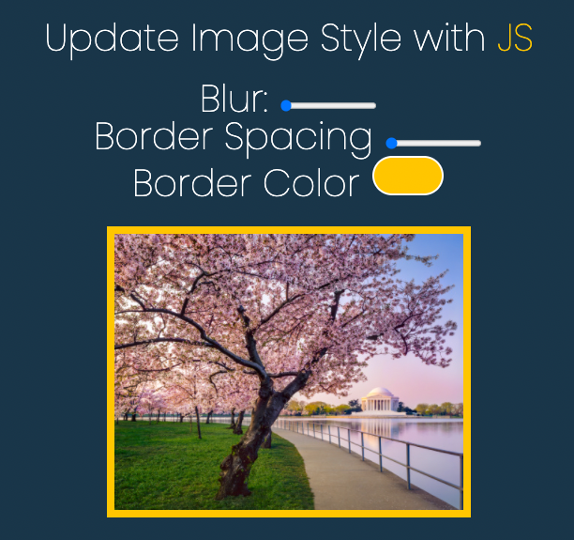
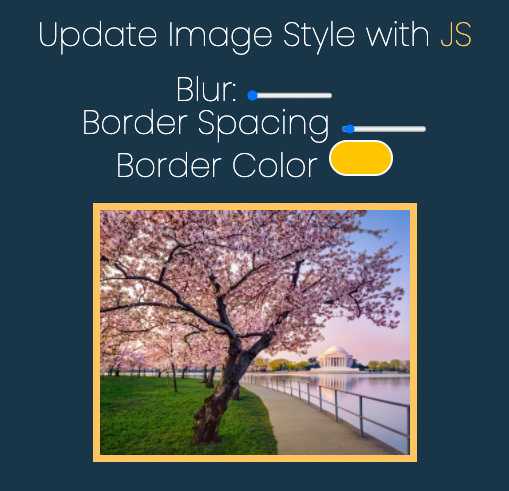
change min to 0

diff --git a/public/index.html b/public/index.html
@@ -45,7 +45,7 @@
           id="spacing"
           type="range"
           name="spacing"
-          min="10"
+          min="0"
           max="200"
           value="10"
           data-sizing="px"
